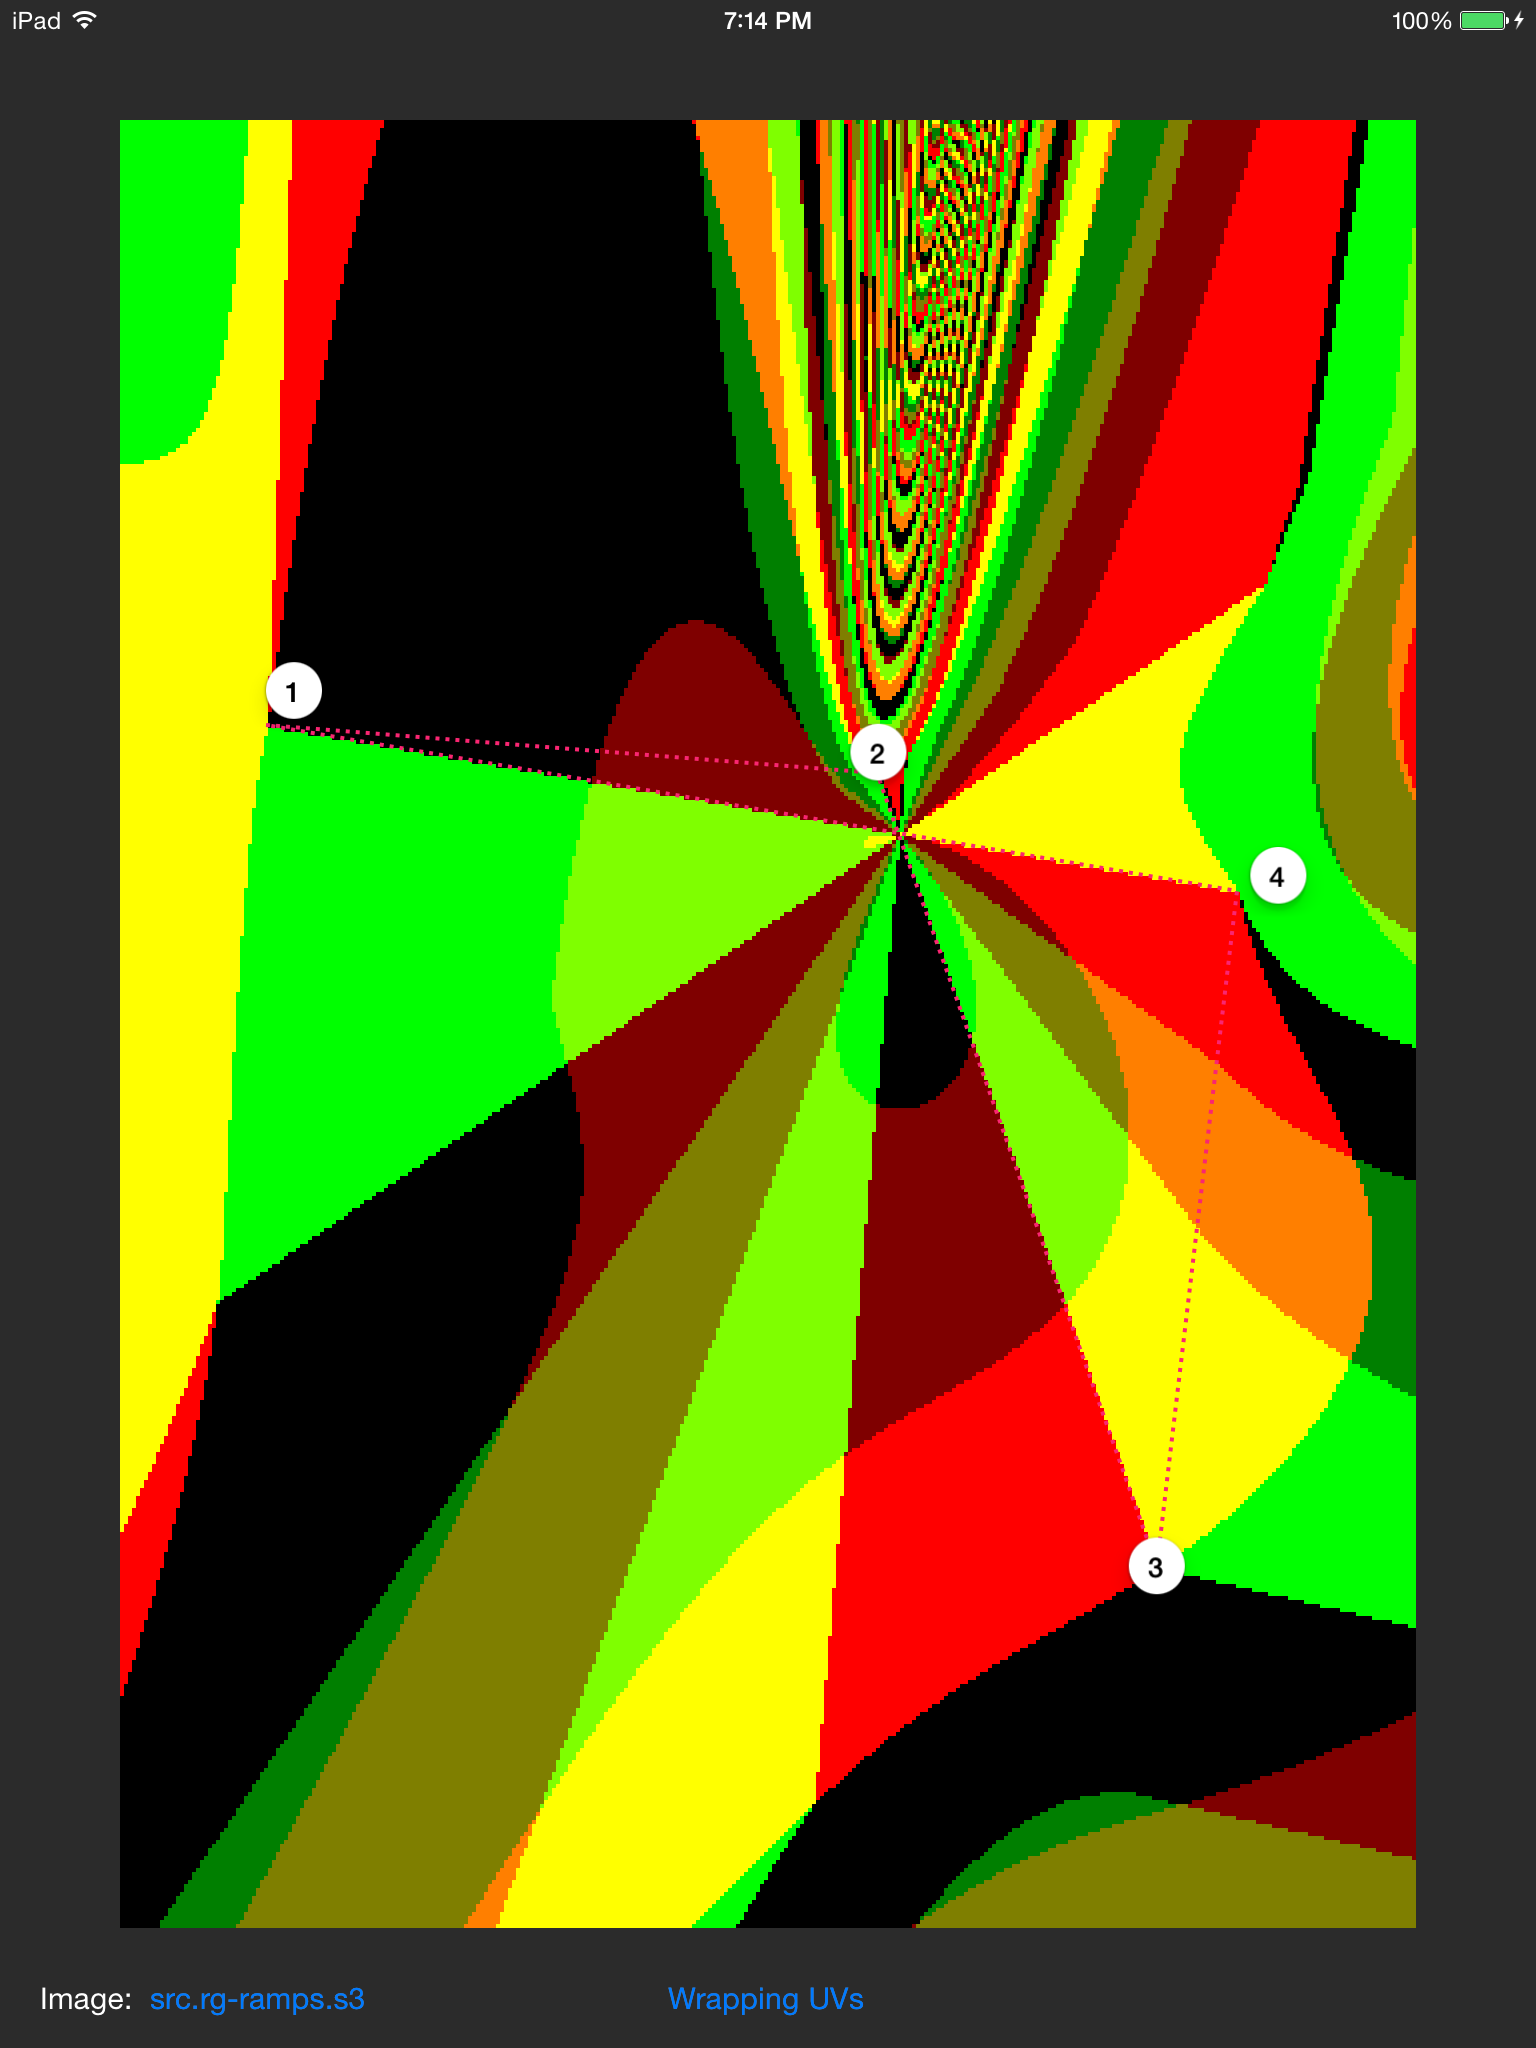
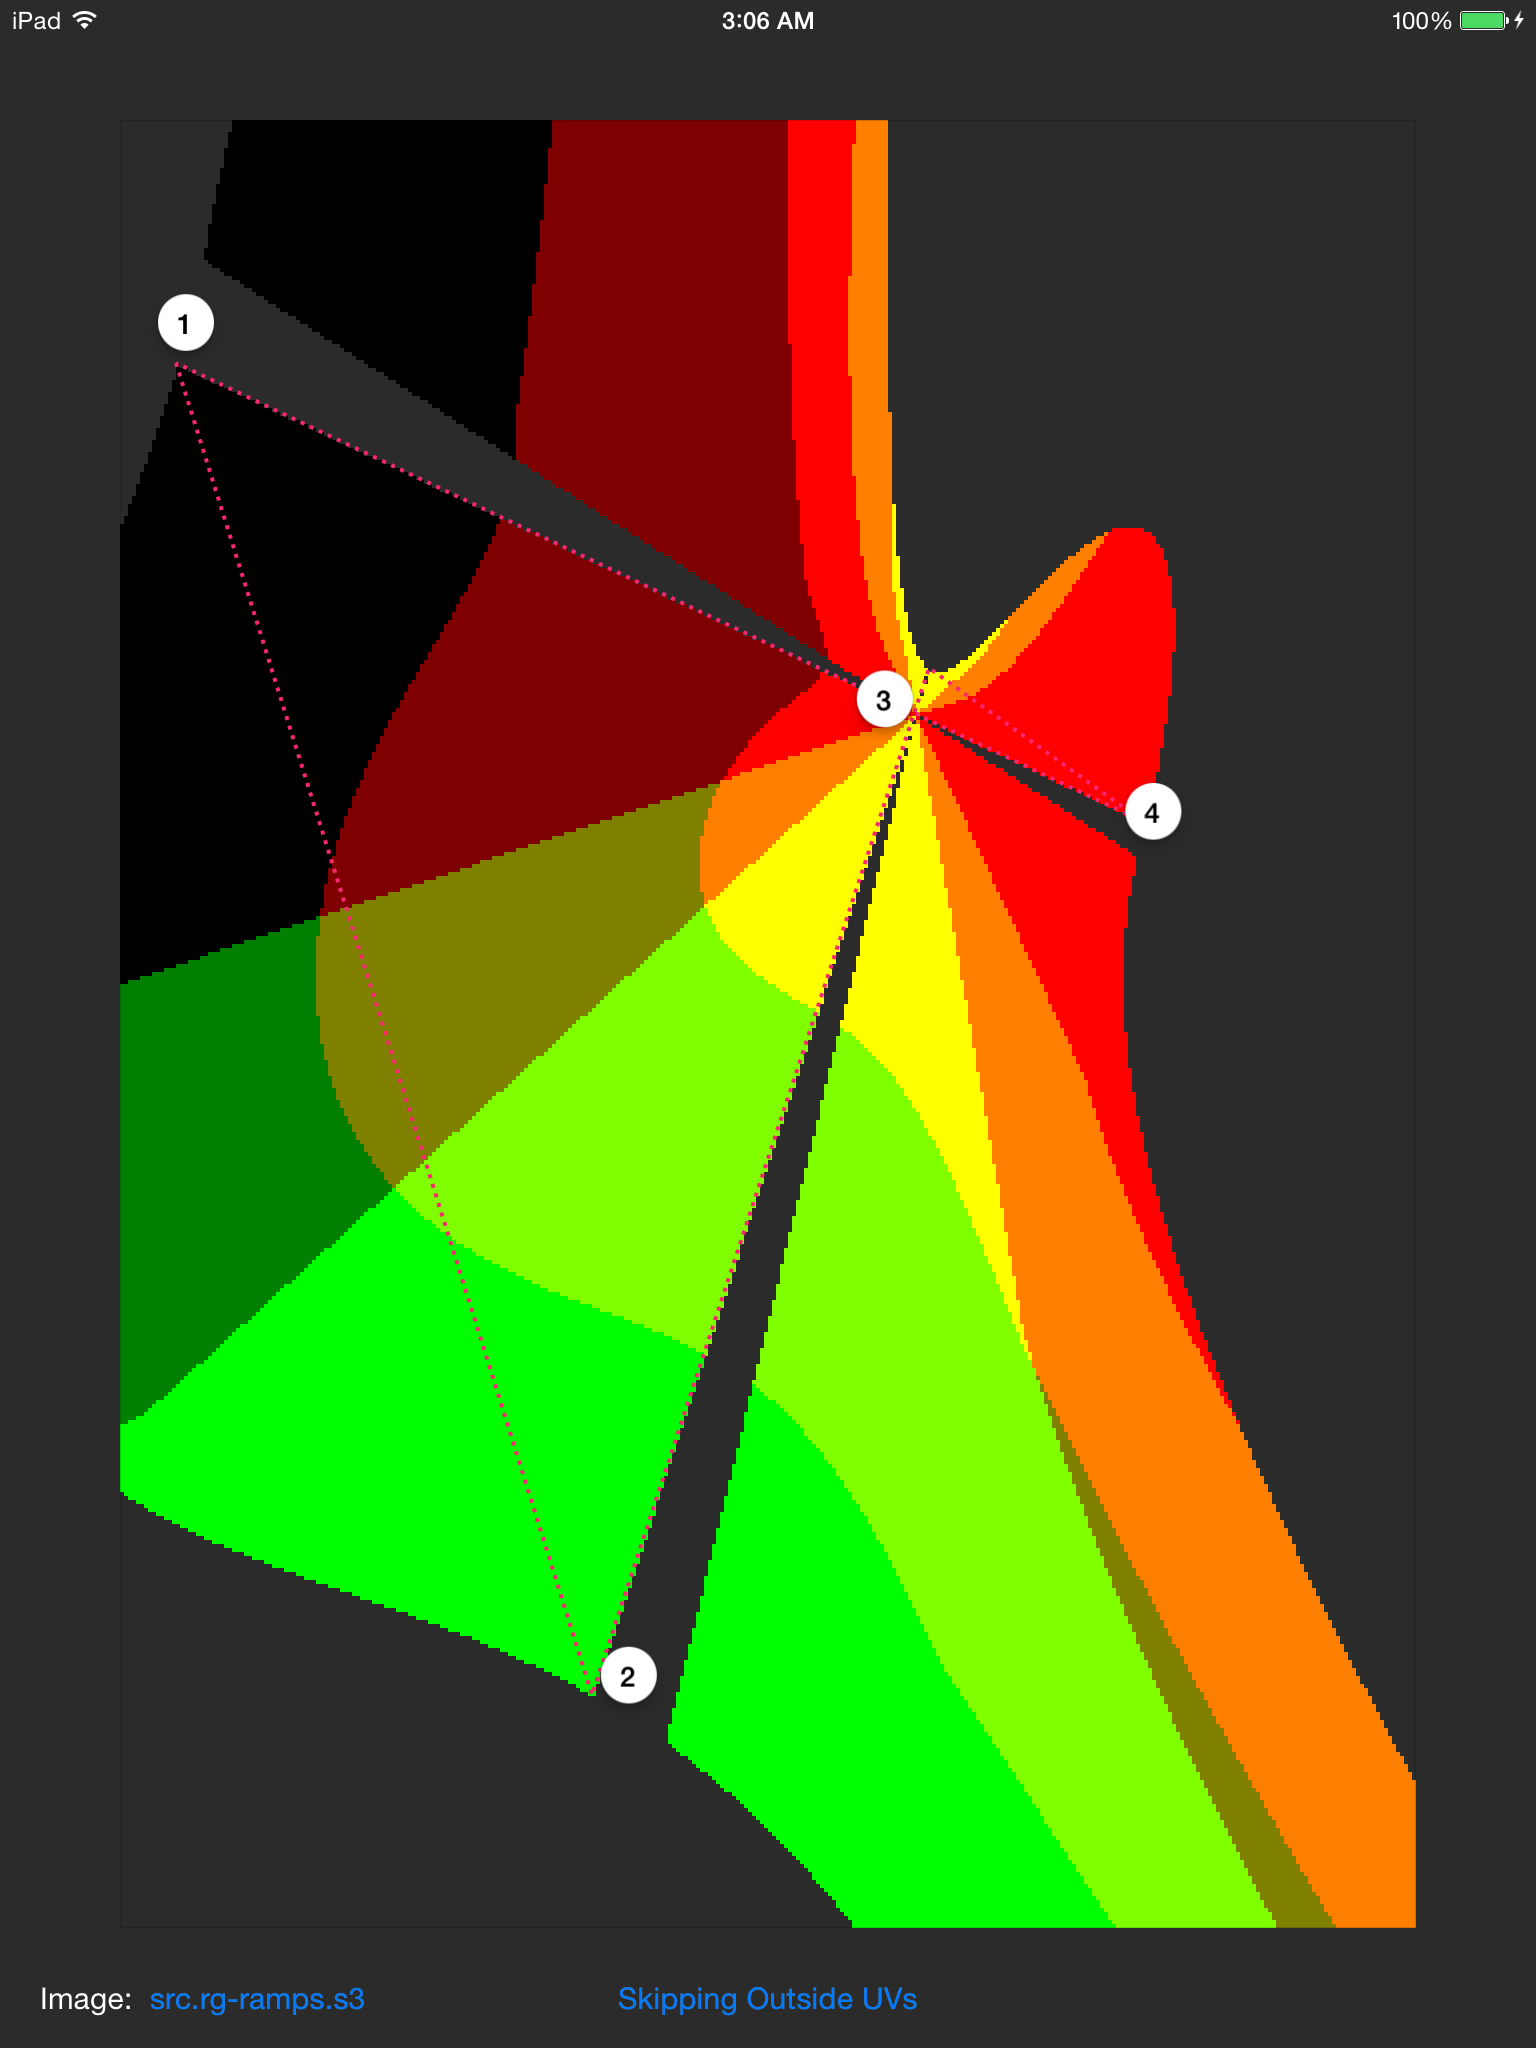
Added popup menu UI for OutsideOfQuadUVMode
Since the UV mode is no longer a polarized decision, switched out the tap-to-invert button with a popup menu, much like the image selection popup.

• Image selection popup-related vars and methods renamed to be prefixed with `imageSelection`.
• Each image selection popup-related var and method duplicated and prefixed with `outsideOfQuadUVMode`.
	» Old `wrapUVs` functionality mostly replaced, with portions going into the new duped-and-reprefixed methods.
	» Just a bit of duplicate code between these; could be factored out, but not all that important maintenant.
• Updated NSUserDefaults save/load usage.
• Changed `- popupMenuWillDisappear:` to call `selectImagePopupMenuWillDisappear:` or `selectOutsideOfQuadUVModePopupMenuWillDisappear:` as appropriate.
• Re-wired things in Main.storyboard.
• Also, both QBPopupMenus switched to arrowDirection downward (menu above).  Not sure what I was thinking with the menus extending rightward.
• And fixed the “clear color” (when using `OutsideOfQuadUVSkip`) to actually be clear by calling `calloc()` in createDestImageData() instead of just `malloc()`.
• Minor: imageViewLayer given a subtle thin dark border.

diff --git a/DrawInQuad/ViewController.m b/DrawInQuad/ViewController.m
@@ -39,9 +39,12 @@ static inline uint32_t nSecsSubSecRemainder(uint64_t nSecs) {
 #pragma mark Constants
 
 static NSString *const kLastSrcImageNameKey = @"ViewController_LastSrcImageName";
-static NSString *const kLastWrapUVsNameKey = @"ViewController_WrapUVsName";
+static NSString *const kLastWrapOutsideOfQuadUVModeKey = @"ViewController_OutsideOfQuadUVMode";
 
 static const int kComponentCount = 4;
+
+static const OutsideOfQuadUVMode kDefaultOutsideOfQuadUVMode = OutsideOfQuadUVWrap;
+static NSArray *kOutsideOfQuadUVModeNames;
 
 
 
@@ -50,7 +53,7 @@ static const int kComponentCount = 4;
 @interface ViewController () {
 	NSArray *_srcPossibilityNames;
 	
-	QBPopupMenu *_popupMenu;
+	QBPopupMenu *_imageSelectionPopupMenu;
 	
 	UIImage *_srcImage;
 	CFDataRef _srcData;
@@ -60,7 +63,8 @@ static const int kComponentCount = 4;
 	size_t _destByteCount;
 	int _destWidth, _destHeight;
 	
-	BOOL _wrapUVs;
+	OutsideOfQuadUVMode _outsideOfQuadUVMode;
+	QBPopupMenu *_outsideOfQuadUVModePopupMenu;
 }
 
 - (CGPoint)handleCenterFromPoint:(CGPoint)point;
@@ -72,6 +76,12 @@ static const int kComponentCount = 4;
 
 
 @implementation ViewController
+
++ (void)initialize
+{
+	kOutsideOfQuadUVModeNames = @[@"Wrapping UVs", @"Clamping UVs", @"Skipping Outside UVs"];
+}
+
 
 @synthesize imageView=_imageView;
 
@@ -129,7 +139,7 @@ static const int kComponentCount = 4;
 			_srcWidth, _srcHeight, _srcData,
 			_destWidth, _destHeight,
 			(CGPoint[4]){ self.point1, self.point2, self.point3, self.point4 },
-			_wrapUVs ? OutsideOfQuadUVClamp : OutsideOfQuadUVWrap,
+			_outsideOfQuadUVMode,
 			&createdByteCount
 		);
 		NSAssert(createdByteCount == _destByteCount, @"Number of bytes generated (%zu) does not match calculated total byte count (%zu).", createdByteCount, _destByteCount);
@@ -188,38 +198,65 @@ static const int kComponentCount = 4;
 	_srcPossibilityNames = srcPossibilityNames;
 }
 
+- (QBPopupMenu *)createImageSelectionPopupMenu
+{
+	NSArray *popupMenuItems = [_srcPossibilityNames bk_map:^(NSString *name) {
+		return [QBPopupMenuItem itemWithTitle:name target:self action:@selector(switchToImageMenuItem:)];
+	}];
+    QBPopupMenu *popupMenu = [[QBPopupMenu alloc] initWithItems:popupMenuItems];
+	popupMenu.color = [UIColor.whiteColor colorWithAlphaComponent:0.9];
+	popupMenu.highlightedColor = self.view.tintColor;
+	popupMenu.textColor = UIColor.blackColor;
+	popupMenu.arrowDirection = QBPopupMenuArrowDirectionDown;
+	popupMenu.delegate = self;
+	
+	return popupMenu;
+}
+
+- (QBPopupMenu *)createOutsideOfQuadUVModePopupMenu
+{
+	NSArray *popupMenuItems = [kOutsideOfQuadUVModeNames bk_map:^(NSString *name) {
+		return [QBPopupMenuItem itemWithTitle:name target:self action:@selector(switchToOutsideOfQuadUVModeMenuItem:)];
+	}];
+    QBPopupMenu *popupMenu = [[QBPopupMenu alloc] initWithItems:popupMenuItems];
+	popupMenu.color = [UIColor.whiteColor colorWithAlphaComponent:0.9];
+	popupMenu.highlightedColor = self.view.tintColor;
+	popupMenu.textColor = UIColor.blackColor;
+	popupMenu.arrowDirection = QBPopupMenuArrowDirectionDown;
+	popupMenu.delegate = self;
+	
+	return popupMenu;
+}
+
 - (void)viewDidLoad
 {
 	[super viewDidLoad];
 	
 	[self generateSrcPossibilities];
 	
-	NSArray *popupMenuItems = [_srcPossibilityNames bk_map:^(NSString *name) {
-		return [QBPopupMenuItem itemWithTitle:name target:self action:@selector(switchToImage:)];
-	}];
-    QBPopupMenu *popupMenu = [[QBPopupMenu alloc] initWithItems:popupMenuItems];
-	popupMenu.color = [UIColor.whiteColor colorWithAlphaComponent:0.9];
-	popupMenu.highlightedColor = self.view.tintColor;
-	popupMenu.textColor = UIColor.blackColor;
-	popupMenu.arrowDirection = QBPopupMenuArrowDirectionLeft;
-	popupMenu.delegate = self;
-    _popupMenu = popupMenu;
+    _imageSelectionPopupMenu = [self createImageSelectionPopupMenu];
 	
 	[_imageSelectionButton setTitle:nil forState:UIControlStateHighlighted];
 	[_imageSelectionButton setTitle:nil forState:UIControlStateDisabled];
 	[_imageSelectionButton setTitle:nil forState:UIControlStateSelected];
-	
-	NSNumber *wrapUVsValue = [NSUserDefaults.standardUserDefaults objectForKey:kLastWrapUVsNameKey];
-	if (wrapUVsValue == nil)
-		_wrapUVs = YES;
-	else
-		_wrapUVs = wrapUVsValue.boolValue;
 	
 	NSString *srcImageName = [NSUserDefaults.standardUserDefaults stringForKey:kLastSrcImageNameKey];
 	if (srcImageName == nil || ![_srcPossibilityNames containsObject:srcImageName])
 		srcImageName = _srcPossibilityNames.firstObject;
 	
 	[self switchToImageNamed:srcImageName];
+	
+	NSNumber *outsideOfQuadUVModeValue = [NSUserDefaults.standardUserDefaults objectForKey:kLastWrapOutsideOfQuadUVModeKey];
+	if (outsideOfQuadUVModeValue == nil)
+		_outsideOfQuadUVMode = kDefaultOutsideOfQuadUVMode;
+	else
+		_outsideOfQuadUVMode = outsideOfQuadUVModeValue.intValue;
+	
+	[_wrapClampUVsButton setTitle:nil forState:UIControlStateHighlighted];
+	[_wrapClampUVsButton setTitle:nil forState:UIControlStateDisabled];
+	[_wrapClampUVsButton setTitle:nil forState:UIControlStateSelected];
+	
+	[self switchToOutsideOfQuadUVMode:_outsideOfQuadUVMode];
 	
 	self.point1 = CGPointMake(0.00f, 0.00f);
 	self.point2 = CGPointMake(0.05f, 0.95f);
@@ -231,10 +268,11 @@ static const int kComponentCount = 4;
 	[self.handle3 enableDragging];
 	[self.handle4 enableDragging];
 	
-	[_wrapClampUVsToggleButton setTitle:nil forState:UIControlStateHighlighted];
-	[_wrapClampUVsToggleButton setTitle:nil forState:UIControlStateDisabled];
-	[_wrapClampUVsToggleButton setTitle:nil forState:UIControlStateSelected];
-	[self updateWrapClampUVsToggleButton];
+    _outsideOfQuadUVModePopupMenu = [self createOutsideOfQuadUVModePopupMenu];
+	
+	CALayer *imageViewLayer = self.imageView.layer;
+	imageViewLayer.borderWidth = 0.5f;
+	imageViewLayer.borderColor = [UIColor colorWithWhite:0.0f alpha:(0x27 / 255.0f)].CGColor;
 }
 
 - (void)dealloc
@@ -332,6 +370,14 @@ static const int kComponentCount = 4;
 	[self redrawDestImage];
 }
 
+- (void)popupMenuWillDisappear:(QBPopupMenu *)popupMenu
+{
+	if (popupMenu == _imageSelectionPopupMenu)
+		[self selectImagePopupMenuWillDisappear:popupMenu];
+	else if (popupMenu == _outsideOfQuadUVModePopupMenu)
+		[self selectOutsideOfQuadUVModePopupMenuWillDisappear:popupMenu];
+}
+
 - (IBAction)selectImage:(id)sender
 {
 	UIButton *imageSelectionButton = self.imageSelectionButton;
@@ -345,14 +391,11 @@ static const int kComponentCount = 4;
 	];
 	
 	UIView *viewSender = (UIView *)sender;
-	[_popupMenu showInView:self.view targetRect:viewSender.frame animated:YES];
+	[_imageSelectionPopupMenu showInView:self.view targetRect:viewSender.frame animated:YES];
 }
 
-- (void)popupMenuWillDisappear:(QBPopupMenu *)popupMenu
+- (void)selectImagePopupMenuWillDisappear:(QBPopupMenu *)popupMenu
 {
-	if (popupMenu != _popupMenu)
-		return;
-	
 	UIButton *imageSelectionButton = self.imageSelectionButton;
 	[UIView animateWithDuration:0.5
 		animations:^{
@@ -361,7 +404,7 @@ static const int kComponentCount = 4;
 	];
 }
 
-- (void)switchToImage:(QBPopupMenuItem *)sender
+- (void)switchToImageMenuItem:(QBPopupMenuItem *)sender
 {
 	NSString *imageName = sender.title;
 	[self switchToImageNamed:imageName];
@@ -385,33 +428,62 @@ static const int kComponentCount = 4;
 	[NSUserDefaults.standardUserDefaults setObject:imageName forKey:kLastSrcImageNameKey];
 }
 
+- (IBAction)selectOutsideOfQuadUVMode:(id)sender
+{
+	UIButton *wrapClampUVsButton = self.wrapClampUVsButton;
+	[UIView animateWithDuration:0.5
+		animations:^{
+			wrapClampUVsButton.selected = YES;
+		}
+		completion:^(BOOL finished) {
+			wrapClampUVsButton.selected = YES;
+		}
+	];
+	
+	UIView *viewSender = (UIView *)sender;
+	[_outsideOfQuadUVModePopupMenu showInView:self.view targetRect:viewSender.frame animated:YES];
+}
+
+- (void)selectOutsideOfQuadUVModePopupMenuWillDisappear:(QBPopupMenu *)popupMenu
+{
+	UIButton *wrapClampUVsButton = self.wrapClampUVsButton;
+	[UIView animateWithDuration:0.5
+		animations:^{
+			wrapClampUVsButton.selected = NO;
+		}
+	];
+}
+
+- (void)switchToOutsideOfQuadUVModeMenuItem:(QBPopupMenuItem *)sender
+{
+	NSString *modeName = sender.title;
+	int modeIndex = (int)[kOutsideOfQuadUVModeNames indexOfObject:modeName];
+	
+	[self switchToOutsideOfQuadUVMode:modeIndex];
+}
+- (void)switchToOutsideOfQuadUVMode:(OutsideOfQuadUVMode)mode
+{
+	UIButton *wrapClampUVsButton = self.wrapClampUVsButton;
+	
+	NSString *title = kOutsideOfQuadUVModeNames[mode];
+	[wrapClampUVsButton setTitle:title forState:UIControlStateNormal];
+	
+	[wrapClampUVsButton sizeToFit];
+	
+	CGPoint center = wrapClampUVsButton.center;
+	center.x = self.view.bounds.size.width * 0.5f;
+	wrapClampUVsButton.center = center;
+	
+	_outsideOfQuadUVMode = mode;
+	
+	[NSUserDefaults.standardUserDefaults setInteger:mode forKey:kLastWrapOutsideOfQuadUVModeKey];
+}
+
 - (void)redrawDestImage
 {
 	_destImage = nil;
 	_imageView.image = self.destImage;
-}
-
-- (IBAction)toggleWrapClamp:(id)sender
-{
-	_wrapUVs = !_wrapUVs;
-	[self updateWrapClampUVsToggleButton];
-	[NSUserDefaults.standardUserDefaults setBool:_wrapUVs forKey:kLastWrapUVsNameKey];
-	
-	// called as a side-effect of repositioning the wrapClampUVsToggleButton: [self redrawDestImage];
-}
-
-- (void)updateWrapClampUVsToggleButton
-{
-	UIButton *wrapClampUVsToggleButton = self.wrapClampUVsToggleButton;
-	
-	NSString *title = _wrapUVs ? @"Wrapping UVs" : @"Clamping UVs";
-	[wrapClampUVsToggleButton setTitle:title forState:UIControlStateNormal];
-	
-	[wrapClampUVsToggleButton sizeToFit];
-	
-	CGPoint center = wrapClampUVsToggleButton.center;
-	center.x = self.view.bounds.size.width * 0.5f;
-	wrapClampUVsToggleButton.center = center;
+	// called as a side-effect of repositioning the wrapClampUVsButton: [self redrawDestImage];
 }
 
 @end

diff --git a/DrawInQuad/CGTextureMapping.c b/DrawInQuad/CGTextureMapping.c
@@ -251,11 +251,9 @@ UInt8 * createDestImageData(int srcWidth, int srcHeight, CFDataRef srcData, int 
 		.uvMode = uvMode,
 	};
 	
+	static const size_t kBytesPerPixel = kComponentCount;
 	unsigned int pixelCount = destWidth * destHeight;
-	size_t byteCount = pixelCount * 4;
-	UInt8 *byteBuffer = malloc(byteCount);
-	
-	const size_t kBytesPerPixel = kComponentCount;
+	UInt8 *byteBuffer = calloc(pixelCount, kBytesPerPixel); // #000000,00-initializes
 	
 	for (int pixelX = destWidth - 1; pixelX >= 0; --pixelX) {
 		for (int pixelY = destHeight - 1; pixelY >= 0; --pixelY) {
@@ -269,7 +267,7 @@ UInt8 * createDestImageData(int srcWidth, int srcHeight, CFDataRef srcData, int 
 	}
 	
 	if (out_byteCount != NULL)
-		*out_byteCount = byteCount;
+		*out_byteCount = pixelCount * kBytesPerPixel;
 	
 	return byteBuffer;
 }

diff --git a/DrawInQuad/ViewController.h b/DrawInQuad/ViewController.h
@@ -24,7 +24,7 @@
 @property (weak, nonatomic) IBOutlet UIButton *imageSelectionButton;
 - (IBAction)selectImage:(id)sender;
 
-@property (weak, nonatomic) IBOutlet UIButton *wrapClampUVsToggleButton;
-- (IBAction)toggleWrapClamp:(id)sender;
+@property (weak, nonatomic) IBOutlet UIButton *wrapClampUVsButton;
+- (IBAction)selectOutsideOfQuadMode:(id)sender;
 
 @end
